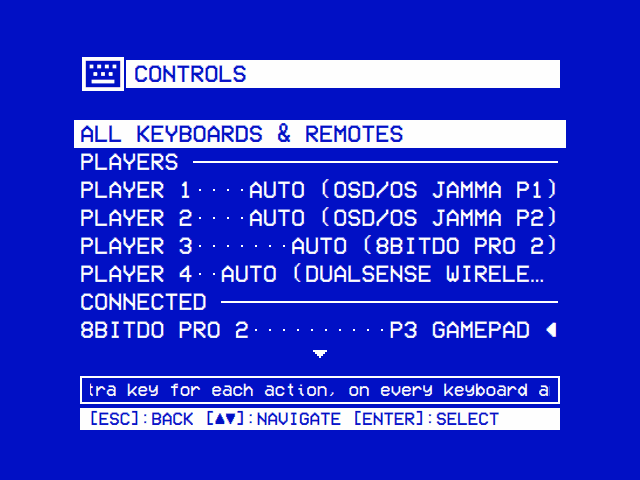
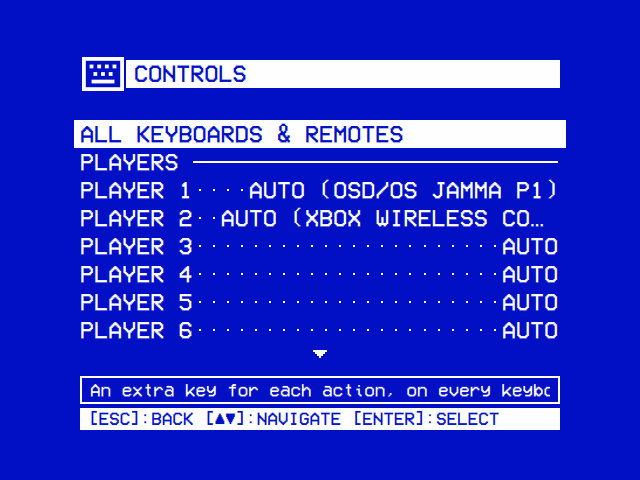
feat: Settings → Controls lists all six players
Controls showed two player lines, and one more for each pad connected
beyond two, so a pad could be chosen for a third or fourth player only once
that many were plugged in, and a cabinet's four USB or Bluetooth pads beside
its two sticks all had to be connected first.

Player 1 to Player 6 are now always listed, each chosen from the pads
connected, or Auto, whatever is connected now; a player whose pad is away
keeps it, as before.

Docs: Controls, Settings and Arcade; the Controls screenshot is retaken.

diff --git a/tests/qml/tst_controllers.qml b/tests/qml/tst_controllers.qml
@@ -219,26 +219,28 @@ Rectangle {
         function test_list() {
             var page = open("Controllers.qml")
             var labels = page.rows.map(function(r) { return r.label })
-            // A player for each of the three pads.
-            compare(labels, ["All Keyboards & Remotes", "Players", "Player 1", "Player 2", "Player 3", "Connected",
+            // All six players, whatever is connected: a pad can be chosen
+            // for one before it is plugged in.
+            compare(labels, ["All Keyboards & Remotes", "Players", "Player 1", "Player 2", "Player 3", "Player 4",
+                             "Player 5", "Player 6", "Connected",
                              "8BitDo Pro 2 x2", "OSD/OS JAMMA P1", "Logitech K400", "G20S PRO",
                              "Not Connected", "DualSense"])
+            compare(page.rows[5].value, "Auto")
             // The pads that play say so.
-            compare(page.rows[6].value, "P2+P3 Gamepad")
-            compare(page.rows[7].value, "P1 Arcade")
-            compare(page.rows[8].value, "Keyboard")
-            compare(page.rows[9].value, "Remote")
-            compare(page.rows[11].value, "Gamepad")
+            compare(page.rows[9].value, "P2+P3 Gamepad")
+            compare(page.rows[10].value, "P1 Arcade")
+            compare(page.rows[11].value, "Keyboard")
+            compare(page.rows[12].value, "Remote")
+            compare(page.rows[14].value, "Gamepad")
 
             // The one used last is marked.
             inputManager.activeController = root.keyboardKey
-            compare(page.rows[8].value, "Keyboard ◄")
-            compare(page.rows[6].value, "P2+P3 Gamepad")
+            compare(page.rows[11].value, "Keyboard ◄")
+            compare(page.rows[9].value, "P2+P3 Gamepad")
 
             // The cursor skips the headings; select opens the page.
-            keyClick(Qt.Key_Down)   // Player 1
-            keyClick(Qt.Key_Down)   // Player 2
-            keyClick(Qt.Key_Down)   // Player 3
+            for (var p = 0; p < 6; p++)
+                keyClick(Qt.Key_Down)   // Players 1 to 6
             keyClick(Qt.Key_Down)   // the 8BitDo
             keyClick(Qt.Key_Return)
             compare(root.navigations.length, 1)
@@ -246,16 +248,16 @@ Rectangle {
             compare(root.navigations[0].params.key, root.padKey)
 
             // A controller going: the cursor stays on its own line, and the
-            // player there was a pad for goes.
+            // players' lines stay.
             keyClick(Qt.Key_Down)
             keyClick(Qt.Key_Down)   // the keyboard
             inputManager.controllers = inputManager.controllers.filter(function(c) { return c.key !== root.jammaKey })
-            compare(page.rows.filter(function(r) { return r.type === "player" }).length, 2)
+            compare(page.rows.filter(function(r) { return r.type === "player" }).length, 6)
             keyClick(Qt.Key_Return)
             compare(root.navigations[1].params.key, root.keyboardKey)
 
             // The shared keys' page, and back.
-            for (var i = 0; i < 4; i++)
+            for (var i = 0; i < 8; i++)
                 keyClick(Qt.Key_Up)
             keyClick(Qt.Key_Return)
             compare(root.navigations[2].path, "views/RemapControls.qml")
@@ -276,11 +278,10 @@ Rectangle {
             inputManager.players = root.withAuto([])
             var page = open("Controllers.qml")
             compare(page.rows.map(function(r) { return r.type }),
-                    ["shared", "section", "player", "player", "section", "note"])
+                    ["shared", "section", "player", "player", "player", "player", "player", "player", "section", "note"])
             compare(page.rows[2].value, "Auto")
-            keyClick(Qt.Key_Down)
-            keyClick(Qt.Key_Down)
-            keyClick(Qt.Key_Down)   // the note can't be chosen: back round to the first line
+            for (var i = 0; i < 7; i++)
+                keyClick(Qt.Key_Down)   // the six players; the note can't be chosen: back round to the first line
             keyClick(Qt.Key_Return)
             compare(root.navigations[0].path, "views/RemapControls.qml")
         }
@@ -330,15 +331,15 @@ Rectangle {
                 { player: 2, key: "", name: "OSD/OS JAMMA P1", playing: root.jammaKey, connected: true }
             ])
             compare(page.rows[2].value, "DualSense (Away)")
-            compare(page.rows[7].value, "P2 Arcade")
+            compare(page.rows[10].value, "P2 Arcade")
 
             // Players 3 to 6 have no JAMMA stick of their number; one chosen
-            // beyond the pads there keeps its line.
+            // with its pad away says so.
             verify(page.rows[4].description.indexOf("JAMMA") < 0)
             var players = root.withAuto([])
             players[4] = { player: 5, key: root.awayKey, name: "DualSense", playing: "", connected: false }
             inputManager.players = players
-            compare(page.rows.filter(function(r) { return r.type === "player" }).length, 5)
+            compare(page.rows.filter(function(r) { return r.type === "player" }).length, 6)
             compare(page.rows[6].value, "DualSense (Away)")
         }
 

diff --git a/views/Controllers.qml b/views/Controllers.qml
@@ -5,7 +5,7 @@ import Components
 // (ControllerSettings.qml): a gamepad, the JAMMA board's sticks, and on Linux
 // each keyboard and remote apart. First the extra keys every keyboard and
 // remote shares (RemapControls.qml), then which pad each player has (PLAYERS,
-// up to six, chosen from the pads connected, or Auto); last, under NOT
+// all six, chosen from the pads connected, or Auto); last, under NOT
 // CONNECTED, those away with settings of their own. The line of the
 // controller used last is marked ◄, so a button pressed on one shows which
 // line it is, and a pad that plays says so (P1, P2…).
@@ -122,19 +122,9 @@ FocusScope {
         var present = controllers.filter(function(c) { return c.present })
         var away = controllers.filter(function(c) { return !c.present })
         items.push({ type: "section", label: "Players" })
-        // Two players, and one more for each pad connected beyond two, up to
-        // six; a player with a pad chosen keeps its line while it is away.
-        var pads = 0
-        for (var m = 0; m < present.length; m++) {
-            if (present[m].kind === "gamepad" || present[m].kind === "arcade")
-                pads += present[m].count
-        }
-        var shown = Math.max(2, pads)
-        for (var q = 0; q < players.length; q++) {
-            if (players[q].key !== "")
-                shown = Math.max(shown, players[q].player)
-        }
-        for (var n = 0; n < players.length && players[n].player <= shown; n++) {
+        // All six, whatever is connected now: a cabinet's two sticks and four
+        // pads over USB or Bluetooth, each chosen before it is plugged in.
+        for (var n = 0; n < players.length; n++) {
             var p = players[n]
             items.push({ type: "player", player: p.player, label: "Player " + p.player, value: playerValue(p),
                          description: "The pad player " + p.player + " has in games. Select, or ◄ ►, to choose it. Auto takes "

diff --git a/ARCHITECTURE.md b/ARCHITECTURE.md
@@ -566,7 +566,7 @@ Settings → Controls lists every controller and gives each its own bindings, an
 - **Pads.** Each connected pad has its own map (`m_pads`): the shared one (defaults and input.cfg) with its profile's bindings over it, an input to an action or `none`. Buttons and axes go by the pad's map, and an axis's state by pad and axis. Auto labels follow `SDL_GameControllerGetType`, or Arcade for the JAMMA board's sticks.
 - **Keyboards and remotes (Linux).** `InputManager` opens each `/dev/input/event*` node itself, read-only and never grabbed, watching `/dev/input` (or `/dev` while it is missing) as devices come and go, and trying a node it can't open yet again every second for 10 seconds. A node with gamepad or joystick buttons is SDL's; one with the letters is a keyboard; one with a remote's keys a remote; HDMI-CEC's (`BUS_CEC`) is left out, as nothing sets CEC up. A **Consumer Control** node's buttons are acted on from the node, as `kEvdevKeyBase` plus their code, by the device's bindings, then the shared remap, then what they do unbound (`keyActionOn()`; this replaces the old single, startup-only Consumer Control reader). Qt's evdev keyboard handler doesn't read such a node, but libinput takes it for a keyboard, so Qt may have a copy of a press too: a press the node took, acted on, reported to a wait or posted to the views (`qtKeyForEvdev()`: a button no action takes, of a key the views act on, Channel + / − and Page Up / Down, goes to them as that key, with its release, held in `m_postedKeys` until let go), is noted (`m_consumerTaken`) and the event filter drops Qt's copy of it; one it didn't take goes on as Qt's key. The same keys from a keyboard node come to Qt as a key of 0 known by its scan code where libinput's keymap has no symbol for them (the channel keys): the event filter delivers them as the keys they are too. Any other node's keys do reach Qt, and its node only says whose they are: `KeySources` notes each press as read, and the event filter, at a real key event's first stop (its window), drains the nodes and takes the latest press of that key (`nativeScanCode` minus libinput's and X11's 8), within 2 seconds; a repeat or a release goes to the device holding it. That device's bindings come before the shared remap. Qt doesn't say whose a key is anywhere else, so on a Mac no keyboard is listed.
 - **A remote's OK, and clicks on the console.** The event filter makes Select of a remote's OK that the views wouldn't take for Return, as it would a key bound to Select (`isRemoteOk()`): keypad Enter, which most views don't handle, and the Select or OK key, `Qt::Key_Select` from Qt's own evdev keymap, or from libinput's, which has no symbol for `KEY_OK` or `KEY_SELECT`, a key of 0 known by its scan code (the evdev code plus 8). `keyId()` takes that key for a Consumer Control node's button of that code, so a binding or a wait for a press takes the one as the other, and a Consumer Control node's OK and Select are Select from the node too. On the console (EGLFS: `main.cpp` calls `setClickActions()`) a mouse's left and right buttons are Select / OK and Back where nothing else is bound to them, as an air-mouse remote's OK is a left click while its pointer is on. `defaultKeyAction()` names them all, so a wait for a press keeps them, as it keeps Enter. A key that stands for an action (one bound, Right Shift, or one of these) is let go as that action's key too (`deliverRelease()`), for a view that acts on the release, as the Arcade screen's select does.
-- **Players.** `players` and `setPlayer(player, key)`: players 1 to 6 (`controllers::kPlayers`; the list shows two, and one more for each pad beyond two), each a pad's key or Auto, in `config.json`'s `app.players`. `updatePlayers()`, on every change and hotplug, finds who plays (a chosen pad while it is there, and none while it is away; Auto the JAMMA stick of that number, else the first pad left in the order they came), sets SDL's player index on every pad (lights, where SDL drives them), and keeps the players' names, GUIDs and device nodes for `controllers::applyPlayersTo(env)`, which `ScriptLauncher` adds to a script's environment as `OSDOS_PLAYER<n>_NAME`, `_GUID` and `_DEVICE`; `controllers::playerGuids()` gives the Arcade module the GUIDs, for MAME and RetroArch ([Arcade](#arcade-mame-and-finalburn-neo)).
+- **Players.** `players` and `setPlayer(player, key)`: players 1 to 6 (`controllers::kPlayers`; the list shows all six, whatever is connected), each a pad's key or Auto, in `config.json`'s `app.players`. `updatePlayers()`, on every change and hotplug, finds who plays (a chosen pad while it is there, and none while it is away; Auto the JAMMA stick of that number, else the first pad left in the order they came), sets SDL's player index on every pad (lights, where SDL drives them), and keeps the players' names, GUIDs and device nodes for `controllers::applyPlayersTo(env)`, which `ScriptLauncher` adds to a script's environment as `OSDOS_PLAYER<n>_NAME`, `_GUID` and `_DEVICE`; `controllers::playerGuids()` gives the Arcade module the GUIDs, for MAME and RetroArch ([Arcade](#arcade-mame-and-finalburn-neo)).
 - **Held inputs.** Every input held down (a pad's button or stick direction, a Consumer Control button, a mouse button that acts) is kept in `m_heldInputs` with the action its press began, by its controller (a pad's instance, a node's path) and the input. Its release ends that action, whatever the input does by then: a page may have bound it anew, or begun a capture, while it was held. A controller that goes (`closeController()`, `closeNode()`), or a pad that Steam's virtual gamepad comes to stand for (`recomputeSuppressedDevices()`), lets go of what it held, as its releases may never be read; other controllers' held actions go on, unless one holds the same action (`m_heldActions` is a set: an action held twice ends at the first release).
 - **Capture.** `captureController(key)` reports that controller's next presses through `controllerInputCaptured(key, input, label)` instead of acting; every other controller acts as usual, and InputManager ends a capture itself after 12 seconds. `captureControllers(keys)` does it for several at once (the JAMMA board's two sticks, tested together). A page's **Test Buttons** is a capture renewed with each press, its presses shown and none bound. A key whose press a capture took (this one's, or the shared page's `setRemapCapture`) is swallowed until it is let go (`m_capturedKeys`), as its repeats would act as what it was just given. `bindControllerInput` returns what came of a press (`set`, `already`, `only`, `other` or `cancel`), so that no press leaves a controller without a way through the menus: a pad's only Select / OK, Back, Up or Down stays (`essentialAction()`); on a keyboard or remote, a key that does Back ends the wait, and one that does Select / OK, Up or Down, or one the menus use (arrows, Enter, Space), keeps it (`keyCapture(key, id, action)`, which `RemapControls.qml` asks too, with no key: then for the controller used last, which pressed it). A controller away is still named and labelled as it was last seen (`m_seenAs`). `setControllerLabels` and `resetController` change a profile; `controllers` (with `activeController`, the one used last) and `controllerPage(key)` are what the pages show.
 - **Labels elsewhere.** `buttonLabel(key, token)` names one of a pad's buttons as its labels do (input.cfg's token: `back`, `start`), for a view that tells the player which to press: the Arcade module's `COIN + START`.

diff --git a/docs/wiki/Controls.md b/docs/wiki/Controls.md
@@ -2,7 +2,7 @@
 
 Every way to drive OSD/OS: a keyboard, a remote, a gamepad, a mouse. This page lists what each key and button does, on the menus and during a video; how gamepads and remotes reach OSD/OS; how Settings → Controls sets each controller apart, with its own buttons and button labels, chooses the pads of players 1 to 6, and gives every keyboard and remote one more key for an action; remapping every gamepad in `input.cfg`; the hints at the foot of the screen; and pairing Bluetooth devices in Settings → Bluetooth.
 
-<img src="https://raw.githubusercontent.com/mehmetraif/OSD-OS/main/docs/screenshots/controls.png" width="100%" alt="Settings → Controls: ALL KEYBOARDS & REMOTES; PLAYERS: PLAYER 1 8BITDO PRO 2, PLAYER 2 AUTO (OSD/OS JAMMA P2); CONNECTED: 8BITDO PRO 2 P1 GAMEPAD ◄, DUALSENSE WIRELESS CONT… GAMEPAD, OSD/OS JAMMA P1 ARCADE" />
+<img src="https://raw.githubusercontent.com/mehmetraif/OSD-OS/main/docs/screenshots/controls.png" width="100%" alt="Settings → Controls: ALL KEYBOARDS & REMOTES; PLAYERS: PLAYER 1 AUTO (OSD/OS JAMMA P1), PLAYER 2 AUTO (XBOX WIRELESS CO…), PLAYER 3 to PLAYER 6 AUTO" />
 
 ## The actions
 
@@ -260,7 +260,7 @@ Settings → **Controls** lists every controller connected, each with a page of 
 
 <img src="https://raw.githubusercontent.com/mehmetraif/OSD-OS/main/docs/screenshots/controller-players.png" width="100%" alt="PLAYER 1: WHICH PAD IS PLAYER 1, then AUTO (selected), 8BITDO PRO 2, DUALSENSE WIRELESS CONTROLLER, OSD/OS JAMMA P1, OSD/OS JAMMA P2" />
 
-**Player 1** to **Player 6** say which pad each player has in games: the [Arcade](https://github.com/mehmetraif/OSD-OS/wiki/Arcade#players-and-buttons) module's, where player 1's pad is MAME's joystick 1, player 2's its joystick 2 and so on, and any game or emulator a [script](https://github.com/mehmetraif/OSD-OS/wiki/Scripts#what-a-script-receives) starts. There are lines for two players, and one more for each pad connected beyond two, up to six: the JAMMA board's two sticks and four pads over USB or Bluetooth, as many as MAME's six-player games take. A player whose pad was chosen keeps its line while the pad is away. Select on one lists the pads connected, Auto first; ◄ ► go through the same list in place. Keyboards and remotes aren't players. The menus go on taking every controller, players or not.
+**Player 1** to **Player 6** say which pad each player has in games: the [Arcade](https://github.com/mehmetraif/OSD-OS/wiki/Arcade#players-and-buttons) module's, where player 1's pad is MAME's joystick 1, player 2's its joystick 2 and so on, and any game or emulator a [script](https://github.com/mehmetraif/OSD-OS/wiki/Scripts#what-a-script-receives) starts. There is a line for each of the six, whatever is connected now, so a pad can be chosen for a player before a game: the JAMMA board's two sticks and four pads over USB or Bluetooth, as many as MAME's six-player games take. A player whose pad was chosen keeps it while the pad is away. Select on one lists the pads connected, Auto first; ◄ ► go through the same list in place. Keyboards and remotes aren't players. The menus go on taking every controller, players or not.
 
 - **Auto**, the default, takes the JAMMA board's stick of the player's number (`OSD/OS JAMMA P1` for player 1, `P2` for player 2), else the first pad left, in the order the pads came: players 3 to 6 take the pads after the sticks. The line reads `AUTO (<pad>)`.
 - **A pad chosen** is that player's wherever it is plugged in. While it is away its player has no pad, rather than another's, and the line reads `<pad> (AWAY)`.

diff --git a/docs/wiki/Settings.md b/docs/wiki/Settings.md
@@ -261,9 +261,9 @@ The row needs the OSD/OS image's presets beside `config.txt`, the app started by
 
 ### Controls
 
-<img src="https://raw.githubusercontent.com/mehmetraif/OSD-OS/main/docs/screenshots/controls.png" width="100%" alt="Controls: ALL KEYBOARDS & REMOTES; PLAYERS: PLAYER 1 8BITDO PRO 2, PLAYER 2 AUTO (OSD/OS JAMMA P2); CONNECTED: 8BITDO PRO 2 P1 GAMEPAD ◄, DUALSENSE WIRELESS CONT… GAMEPAD, OSD/OS JAMMA P1 ARCADE" />
+<img src="https://raw.githubusercontent.com/mehmetraif/OSD-OS/main/docs/screenshots/controls.png" width="100%" alt="Controls: ALL KEYBOARDS & REMOTES; PLAYERS: PLAYER 1 AUTO (OSD/OS JAMMA P1), PLAYER 2 AUTO (XBOX WIRELESS CO…), PLAYER 3 to PLAYER 6 AUTO" />
 
-Controls lists every controller connected: each gamepad (the JAMMA board's two sticks among them, as `ARCADE`) and, on Linux, each keyboard and remote, with **◄** on the one used last. Controllers away with settings of their own follow under **Not Connected**. Above them, **Player 1** to **Player 6** choose the pad each player has in games, from the pads connected, or Auto (the JAMMA board's stick of that number, else the pads in the order they came): two lines, and one more for each pad connected beyond two. Select on a controller opens its page:
+Controls lists every controller connected: each gamepad (the JAMMA board's two sticks among them, as `ARCADE`) and, on Linux, each keyboard and remote, with **◄** on the one used last. Controllers away with settings of their own follow under **Not Connected**. Above them, **Player 1** to **Player 6** choose the pad each player has in games, from the pads connected, or Auto (the JAMMA board's stick of that number, else the pads in the order they came): all six lines, whatever is connected. Select on a controller opens its page:
 
 - **Button Labels** (a pad's): Auto, Xbox, PlayStation, Nintendo or Arcade, what its buttons are called on its page and in the hints.
 - **Up**, **Down**, **Left**, **Right**, **Select / OK**, **Back**, **Play / Pause**: what does each on it. Select, then press a button on that controller: on a pad that button does the action from then on; on a keyboard or remote the key is one more for it, on that one only. Another controller's Back cancels, and so does whatever does Back on a keyboard or remote; the wait ends by itself after 10 seconds. A pad keeps one Select / OK, one Back, one Up and one Down, and a keyboard's or remote's keys for Select / OK, Up and Down and the keys the menus use keep what they do: the help line says why nothing changed.

diff --git a/tests/README.md b/tests/README.md
@@ -21,7 +21,7 @@ ctest --test-dir build-tests --output-on-failure
   - With Settings' Hint Bar off, the area reaches the content box's foot and shows more rows, the spine where it was.
   - A picture of it is saved as `tree-browser-preview.png`, which CI keeps.
 - **controls_views** (`qml/tst_controllers.qml`, run by the same runner): Settings → Controls' pages, `views/Controllers.qml`, `views/ControllerSettings.qml` and `views/RemapControls.qml`, against a stand-in for `InputManager`.
-  - The list: All Keyboards & Remotes, the players, a line for each player there is a pad for (two at least), the controllers connected by kind (P1, P2… on the pads that play), the one used last marked ◄, those away under Not Connected, nothing connected; the cursor skips the headings, keeps to its controller as another goes, and comes back to it from its page.
+  - The list: All Keyboards & Remotes, the players, a line for each of the six whatever is connected, the controllers connected by kind (P1, P2… on the pads that play), the one used last marked ◄, those away under Not Connected, nothing connected; the cursor skips the headings, keeps to its controller as another goes, and comes back to it from its page.
   - The players: Select lists Auto and the pads connected (no keyboard, remote or pad away), the player's own chosen; ◄ ► go round them; Back leaves the chooser unchanged; a pad chosen and away, and its line kept beyond the pads there.
   - A pad's page: its labels go round both ways; a press on it is waited for and set, another controller's input ignored; another controller's Back cancels, and so does the wait running out; its only Select / OK, and a button that does the action already, say so; Clear a Button and Reset to Defaults; leaving the page while it waits lets the pad act again.
   - A keyboard's page: what does Back on it cancels, Select / OK's key stays and says so, another key is set as an extra one; Remove a Key takes one of its own, says so of a key that isn't; its wait runs out too, as its hint says.

diff --git a/docs/wiki/Arcade.md b/docs/wiki/Arcade.md
@@ -301,7 +301,7 @@ On the JAMMA board that is the cabinet's own layout for both players, with the k
 
 Two pads of the same model have the same GUID, so MAME can't tell them apart: the lower-numbered player of the two has its number, and the other takes the place MAME's own order gives it. The JAMMA board's two sticks are told apart. Keyboards play too, with MAME's keys (5 coin, 1 start, the arrows and Ctrl, Alt, Space for player 1).
 
-Six-player games, such as X-Men (6 Players), take six controllers: the JAMMA board's two sticks and four pads over USB or Bluetooth (Settings → Controls lists a player for each pad connected).
+Six-player games, such as X-Men (6 Players), take six controllers: the JAMMA board's two sticks and four pads over USB or Bluetooth (Settings → Controls lists all six players, each to be given a pad).
 
 ## High scores
 
